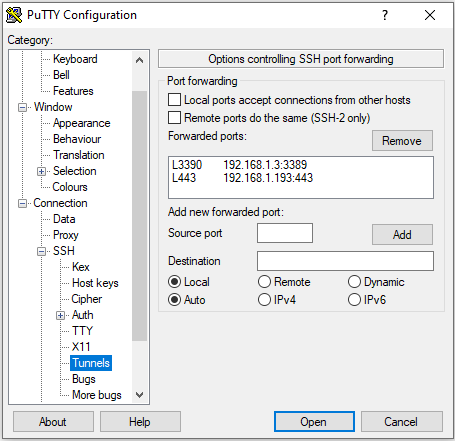
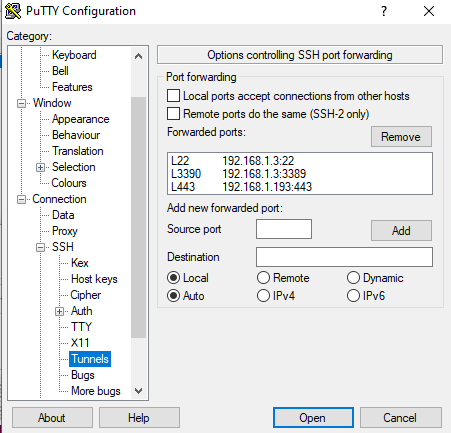
test

Changed region(s): [[0.0, 0.0, 1.0, 1.0], [0.3725, 0.5704, 0.4967, 0.7206]]

diff --git a/docs/dptf/coengineeringlab.md b/docs/dptf/coengineeringlab.md
@@ -73,13 +73,14 @@ system id|locker id|gateway ip|certificate common name
 	- user: tech  and password: redhat!test. now the KVM list of SUT should be available to connect. Double click on the name from that list.  
 	- ![list of kvm](coenginneringlab/sut_list.png)  
 1. For RDP (remote desktop connection) use localhost:3390 . see the previous tunnel config ]  
-	- ![RDP](rdp.png)  
+	- ![RDP](coenginneringlab/rdp.png)  
 	- user password for the system might vary. Administrator and no password is default. 
-
+1. For file transfer need to have sftp tunnel configured on port 22. And need to ensure the SUT is running with the SFTP server on port 22.  
+	- 
 #### useful links 
 
 [wiki for reserving system](https://wiki.ith.intel.com/display/onecloud/CCG+Cloud+FAQ#CCGCloudFAQ-HowtoReserve/ScheduleaSystemforInternalUse)  
 [privacy notice](https://www.intel.com/content/www/us/en/privacy/intel-privacy-notice.html)  
 [intel sdp access agreement](https://sdpconnect.intel.com/html/intel_sdp_access_agreement.htm)  
-
+[configure ssh server on windows](https://winscp.net/eng/docs/guide_windows_openssh_server)  
 ---
